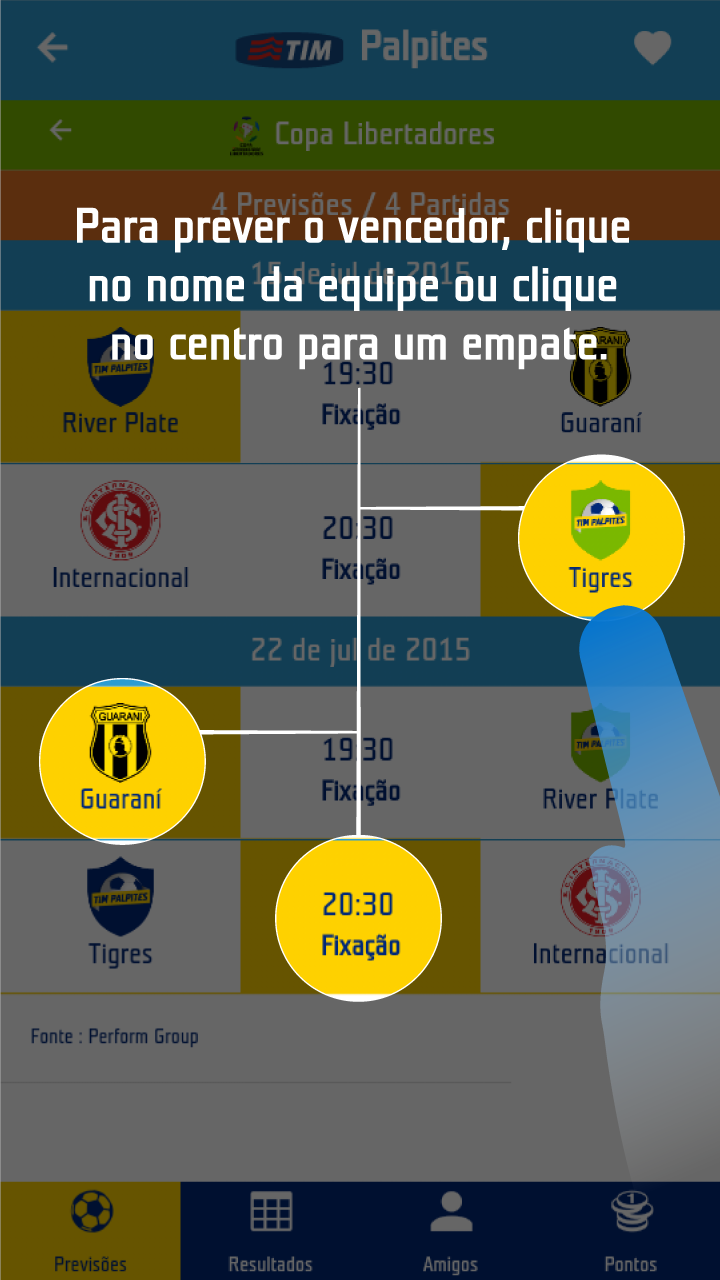
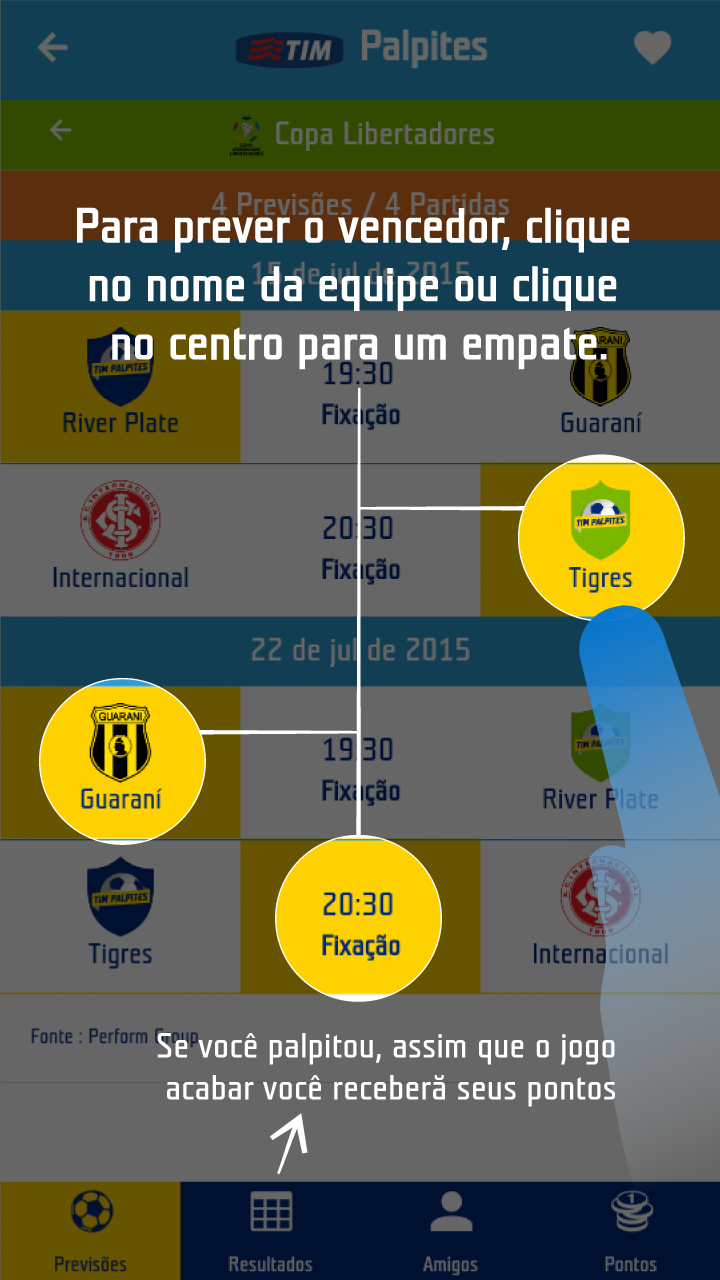
TIM - APP: Nuevo icono para mtm e imágenes de tutorial

Changed region(s): [[0.2139, 0.8125, 0.8556, 0.9062]]

diff --git a/Apps/Tim/app/futbol-brasil/app/styles/fontello.css b/Apps/Tim/app/futbol-brasil/app/styles/fontello.css
@@ -1,0 +1,40 @@
+@font-face {
+  font-family: 'fontello';
+  src: url('fonts/fontello.eot?12305712');
+  src: url('fonts/fontello.eot?12305712#iefix') format('embedded-opentype'),
+       url('fonts/fontello.woff?12305712') format('woff'),
+       url('fonts/fontello.ttf?12305712') format('truetype'),
+       url('fonts/fontello.svg?12305712#fontello') format('svg');
+  font-weight: normal;
+  font-style: normal;
+}
+/* Chrome hack: SVG is rendered more smooth in Windozze. 100% magic, uncomment if you need it. */
+/* Note, that will break hinting! In other OS-es font will be not as sharp as it could be */
+/*
+@media screen and (-webkit-min-device-pixel-ratio:0) {
+  @font-face {
+    font-family: 'fontello';
+    src: url('fonts/fontello.svg?12305712#fontello') format('svg');
+  }
+}
+*/
+
+ [class^="icon-"]:before, [class*=" icon-"]:before {
+  font-family: "fontello";
+  font-style: normal;
+  font-weight: normal;
+  speak: none;
+  display: inline-block;
+  text-decoration: inherit;
+  width: 1em;
+  margin-right: .2em;
+  text-align: center;
+  font-variant: normal;
+  text-transform: none;
+  line-height: 1em;
+  margin-left: .2em;
+  -webkit-font-smoothing: antialiased;
+  -moz-osx-font-smoothing: grayscale;
+}
+
+.icon-aovivo:before { content: '\e800'; }

diff --git a/Apps/Tim/app/futbol-brasil/app/modules/core/views/tutorial.html b/Apps/Tim/app/futbol-brasil/app/modules/core/views/tutorial.html
@@ -13,6 +13,9 @@
       <li ng-style="getWidth()">
         <img  class="h-img-tutorial"  src="img/tutorial/{{language}}/3.png" onerror="this.src='img/tutorial/pt/3.png'">
       </li>
+      <li ng-style="getWidth()">
+        <img  class="h-img-tutorial"  src="img/tutorial/{{language}}/4.png" onerror="this.src='img/tutorial/pt/4.png'">
+      </li>
     </ul>
   </div>
 
@@ -22,6 +25,7 @@
     <i class="mdi-toggle-radio-button-off" ng-class="getToggleOnClass(1)"></i>
     <i class="mdi-toggle-radio-button-off" ng-class="getToggleOnClass(2)"></i>
     <i class="mdi-toggle-radio-button-off" ng-class="getToggleOnClass(3)"></i>
+    <i class="mdi-toggle-radio-button-off" ng-class="getToggleOnClass(4)"></i>
   </div>
 
 </div>
@@ -30,7 +34,7 @@
   <buttom class=" mdi-navigation-chevron-left" ng-click="prevPage()"></buttom>
 </div>
 
-<div style="position:absolute; display:block; bottom:50%; right:0; z-index: 25; "  ng-class="getHiddenClass(3)"  >
+<div style="position:absolute; display:block; bottom:50%; right:0; z-index: 25; "  ng-class="getHiddenClass(4)"  >
   <buttom class="mdi-navigation-chevron-right" ng-click="nextPage()"></buttom>
 </div>
 

diff --git a/Apps/Tim/app/futbol-brasil/app/index.html b/Apps/Tim/app/futbol-brasil/app/index.html
@@ -25,6 +25,7 @@
     <link rel="stylesheet" href="styles/animate.css">
     <link rel="stylesheet" href="styles/default.css">
     <link rel="stylesheet" href="styles/dl.css">
+    <link rel="stylesheet" href="styles/fontello.css">
     <link rel="stylesheet" href="styles/iconvault-preview.css">
     <link rel="stylesheet" href="styles/index.css">
     <link rel="stylesheet" href="styles/media-orientation.css">
@@ -191,7 +192,7 @@
                 </div>
                 <div class="col-xs-15 option" ui-sref-active="active" >
                     <a ui-sref="mtm" class="footer-section">
-                        <span class="icon-envivo"></span>
+                        <span class="icon-aovivo"></span>
                         <span translate>SECTIONS.NOTISTATS.LIVE</span>
                     </a>
                 </div>

diff --git a/Apps/Tim/app/futbol-brasil/app/modules/core/controllers/tutorial.js b/Apps/Tim/app/futbol-brasil/app/modules/core/controllers/tutorial.js
@@ -62,7 +62,7 @@ angular
 
 
             function init(){
-                widthTotal = ($window.innerWidth * 4);
+                widthTotal = ($window.innerWidth * 5);
                 setScroll();
                 $scope.$emit('unload');
             } init();
